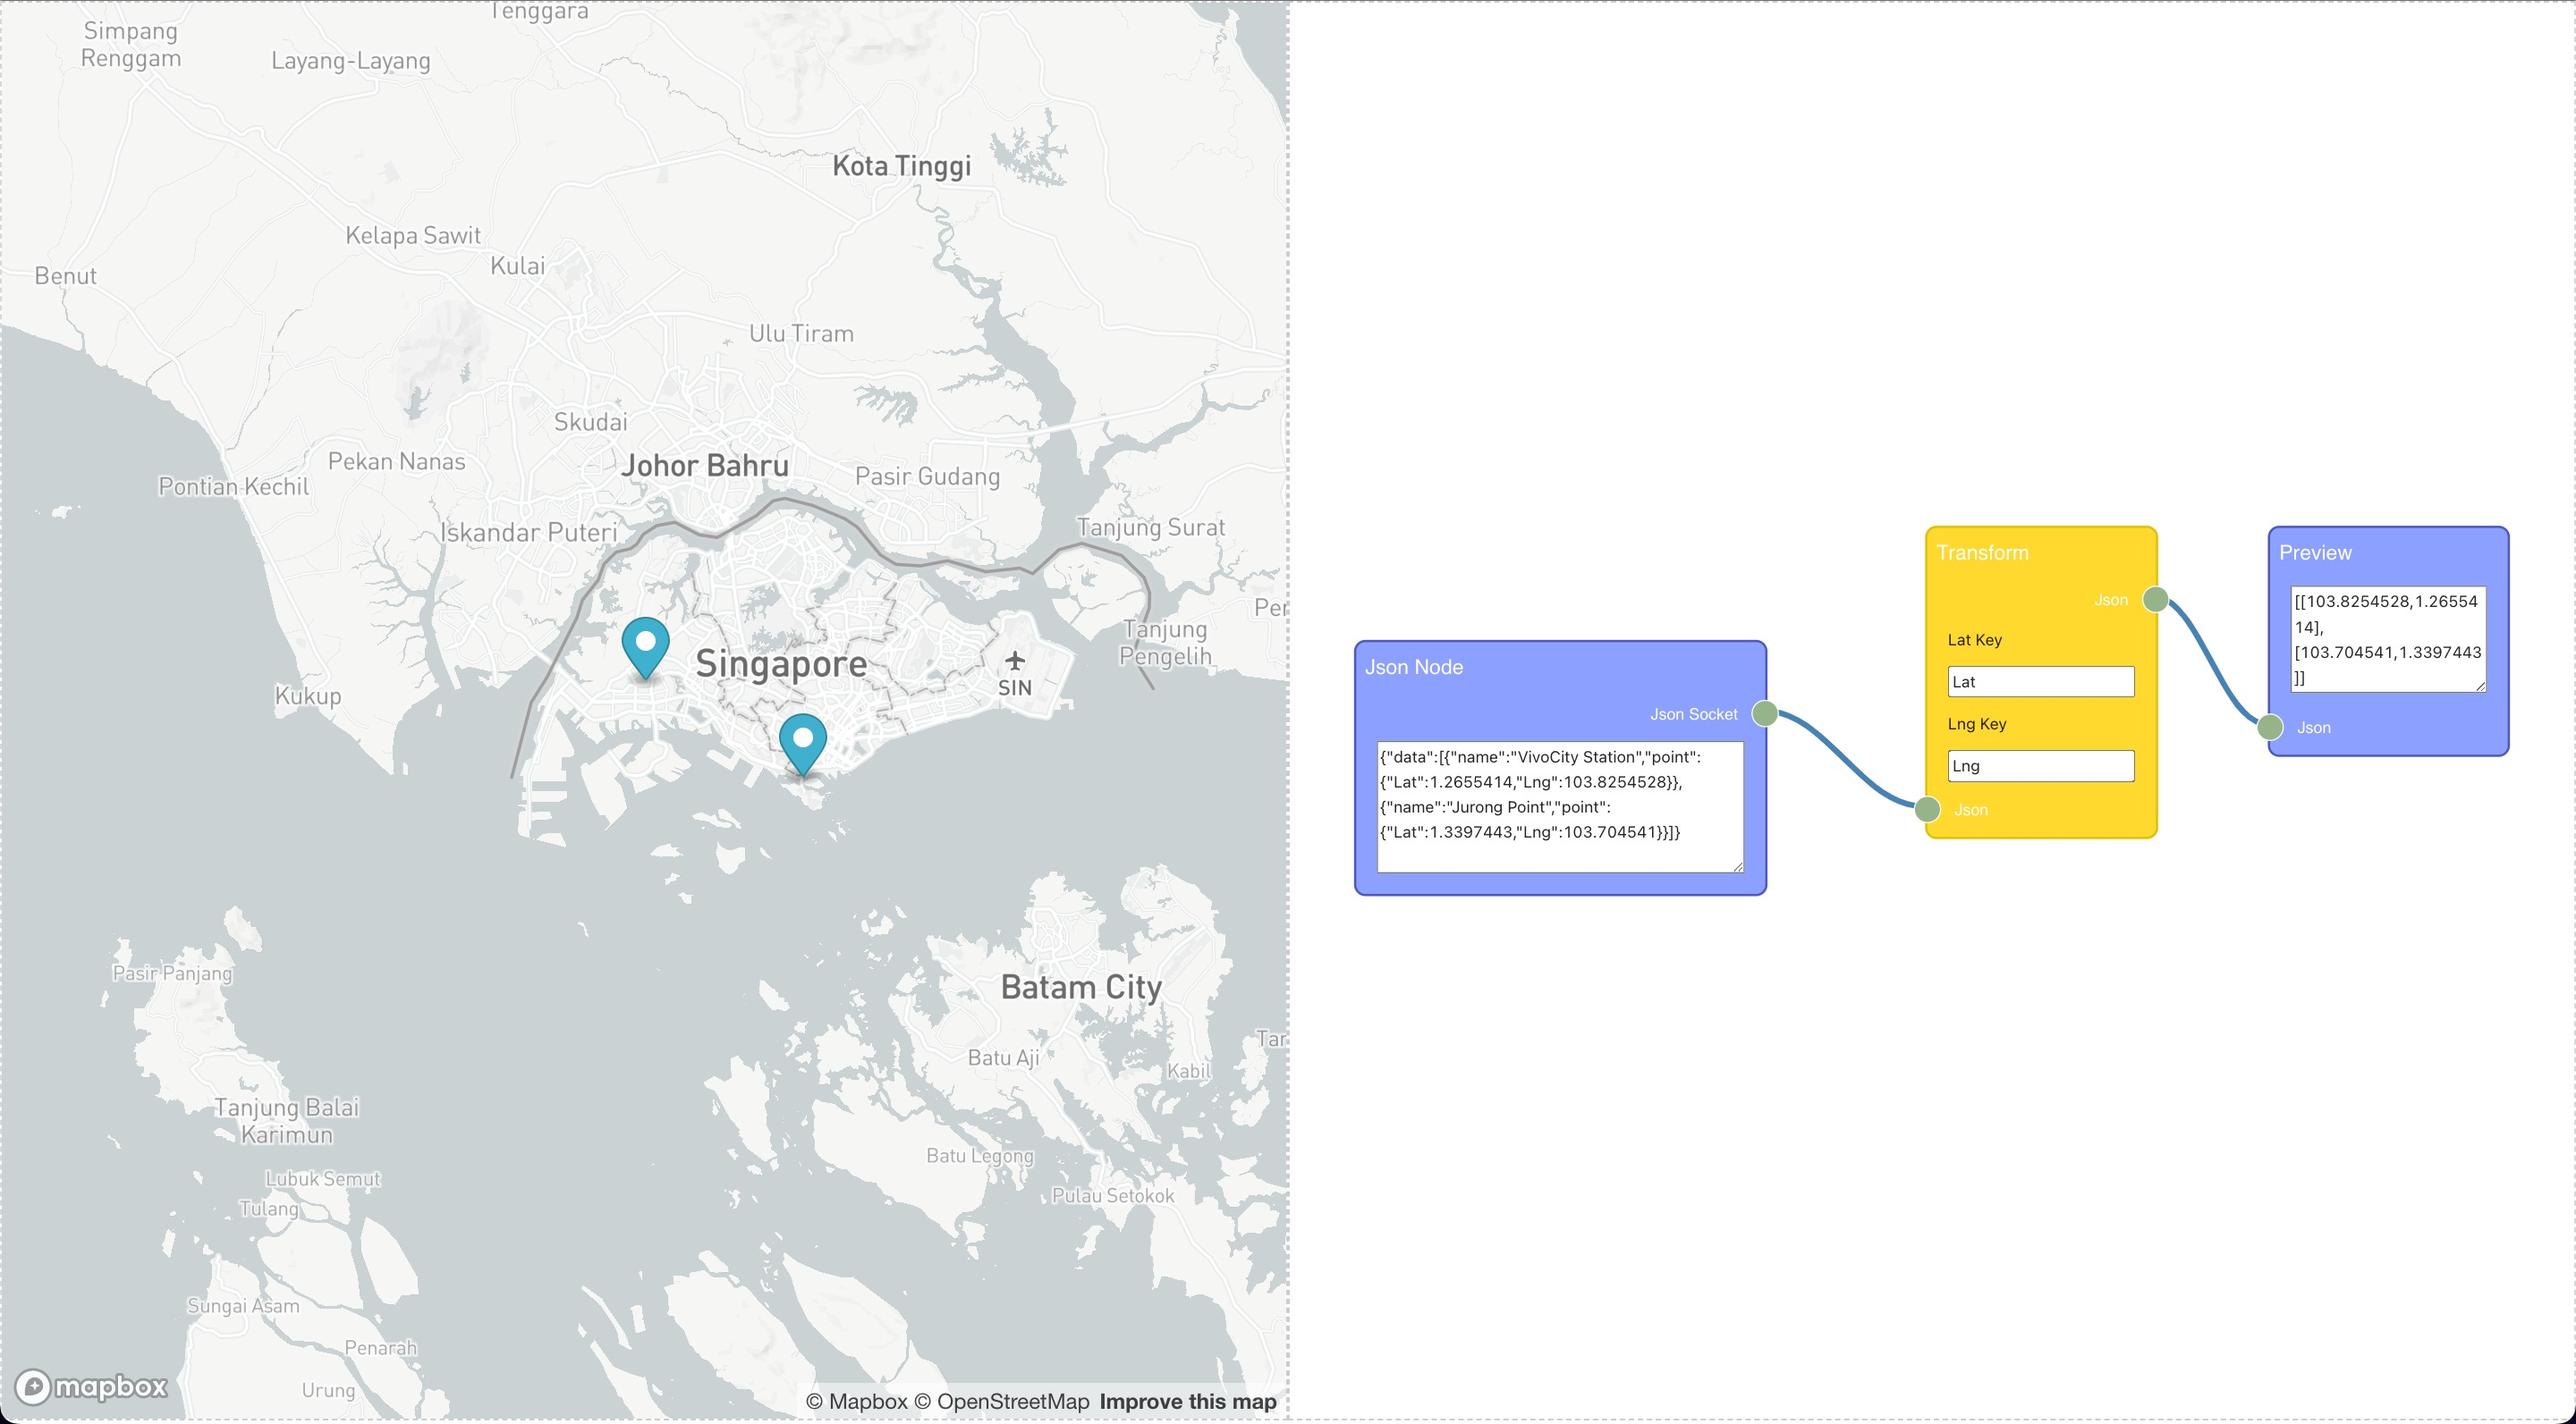
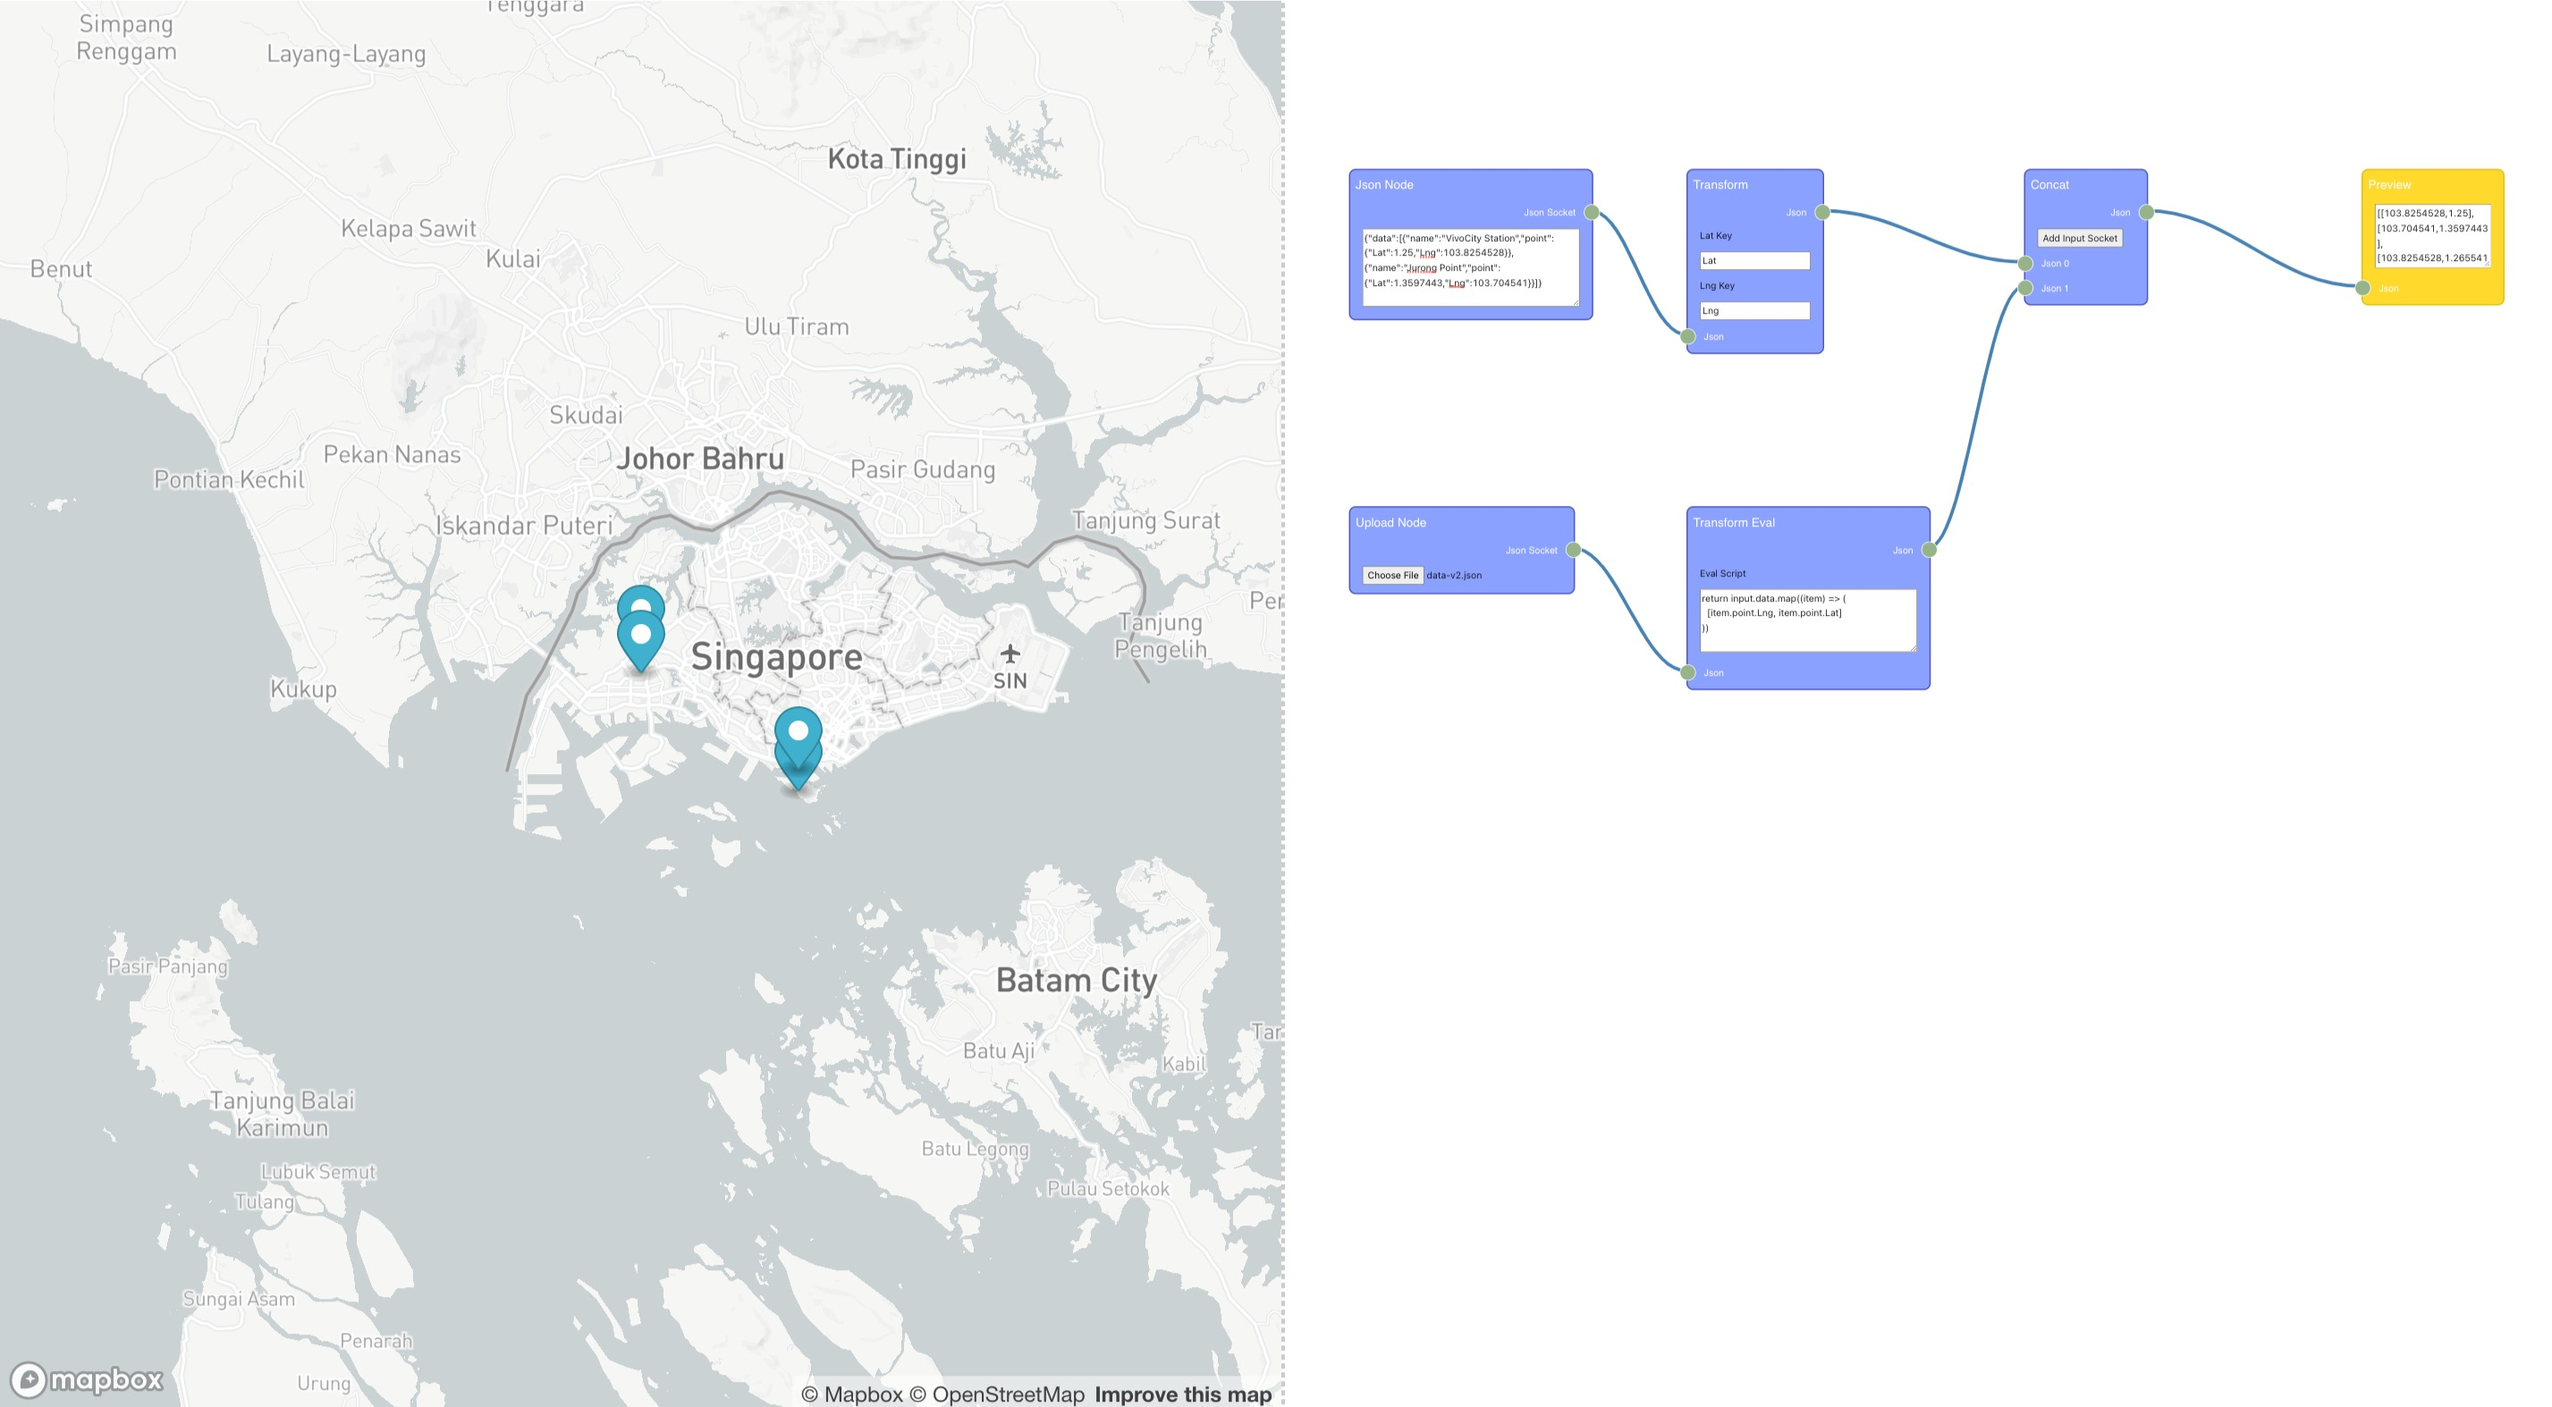
concat data

diff --git a/src/NodeEditor/rete.jsx b/src/NodeEditor/rete.jsx
@@ -4,10 +4,12 @@ import ReactRenderPlugin from 'rete-react-render-plugin';
 import ConnectionPlugin from 'rete-connection-plugin';
 import AreaPlugin from 'rete-area-plugin';
 import JsonComponent from './JsonComponent';
+import TransformComponent from './TransformComponent';
 import TransformEvalComponent from './TransformEvalComponent';
 import PreviewComponent from './PreviewComponent';
 import mockJsonData from './mockData.json';
 import UploadComponent from './UploadComponent';
+import ConcatComponent from './ConcatComponent';
 
 const defaultFnStr = `return input.data.map((item) => (
   [item.point.Lng, item.point.Lat]
@@ -16,7 +18,9 @@ const defaultFnStr = `return input.data.map((item) => (
 export async function createEditor(container) {
   const uploadComponent = new UploadComponent();
   const jsonComponent = new JsonComponent();
+  const transformComponent = new TransformComponent();
   const transformEvalComponent = new TransformEvalComponent();
+  const concatComponent = new ConcatComponent();
   const previewComponent = new PreviewComponent();
 
   const editor = new Rete.NodeEditor('demo@0.1.0', container);
@@ -25,7 +29,9 @@ export async function createEditor(container) {
 
   const engine = new Rete.Engine('demo@0.1.0');
 
-  [uploadComponent, jsonComponent, transformEvalComponent, previewComponent].forEach((c) => {
+  [uploadComponent, jsonComponent, transformComponent, transformEvalComponent,
+    concatComponent, previewComponent,
+  ].forEach((c) => {
     editor.register(c);
     engine.register(c);
   });
@@ -34,25 +40,43 @@ export async function createEditor(container) {
   const jsonNode = await jsonComponent.createNode({
     json: mockJsonData,
   });
+  const transformNode = await transformComponent.createNode();
   const transformEvalNode = await transformEvalComponent.createNode({ fnStr: defaultFnStr });
+  const concatNode = await concatComponent.createNode();
   const previewNode = await previewComponent.createNode();
 
-  uploadNode.position = [0, 400];
-  jsonNode.position = [0, 100];
-  transformEvalNode.position = [500, 0];
-  previewNode.position = [1000, 0];
+  uploadNode.position = [0, 500];
+  jsonNode.position = [0, 0];
+  transformNode.position = [500, 0];
+  transformEvalNode.position = [500, 500];
+  concatNode.position = [1000, 0];
+  previewNode.position = [1500, 0];
 
   editor.addNode(uploadNode);
   editor.addNode(jsonNode);
+  editor.addNode(transformNode);
   editor.addNode(transformEvalNode);
+  editor.addNode(concatNode);
   editor.addNode(previewNode);
 
+  editor.connect(
+    jsonNode.outputs.get('json'),
+    transformNode.inputs.get('json'),
+  );
   editor.connect(
     uploadNode.outputs.get('json'),
     transformEvalNode.inputs.get('json'),
   );
   editor.connect(
+    transformNode.outputs.get('json'),
+    concatNode.inputs.get('json0'),
+  );
+  editor.connect(
     transformEvalNode.outputs.get('json'),
+    concatNode.inputs.get('json1'),
+  );
+  editor.connect(
+    concatNode.outputs.get('json'),
     previewNode.inputs.get('json'),
   );
 

diff --git a/src/NodeEditor/ConcatComponent.js b/src/NodeEditor/ConcatComponent.js
@@ -1,0 +1,49 @@
+import Rete from 'rete';
+import { jsonSocket } from './JsonComponent';
+import ButtonControl from './ButtonControl';
+
+export default class ConcatComponent extends Rete.Component {
+  constructor() {
+    super('Concat');
+  }
+
+  builder(node) {
+    let index = 0;
+
+    const onClick = () => {
+      node.addInput(
+        new Rete.Input(`json${index}`, `Json ${index}`, jsonSocket),
+      );
+      index += 1;
+      node.update(); // Rerender ConcatComponent
+    };
+
+    // Add input
+    [0, 1].forEach(() => {
+      node.addInput(new Rete.Input(`json${index}`, `Json ${index}`, jsonSocket));
+      index += 1;
+    });
+
+    return node
+      .addOutput(new Rete.Output('json', 'Json', jsonSocket))
+      .addControl(
+        new ButtonControl(this.editor, 'addInputSocket', {
+          text: 'Add Input Socket',
+          onClick,
+        }),
+      );
+  }
+
+  // eslint-disable-next-line class-methods-use-this
+  worker(node, inputs, outputs) {
+    let out = [];
+
+    Object.keys(inputs).forEach((key) => {
+      const inputValue = inputs[key].length ? inputs[key][0] : node.data[key];
+      out = [...out, ...inputValue];
+    });
+
+    // eslint-disable-next-line no-param-reassign
+    outputs.json = out;
+  }
+}

diff --git a/src/NodeEditor/TransformEvalComponent.js b/src/NodeEditor/TransformEvalComponent.js
@@ -5,7 +5,7 @@ import DivControl from './DivControl';
 
 export default class TransformEvalComponent extends Rete.Component {
   constructor() {
-    super('Transform');
+    super('Transform Eval');
   }
 
   builder(node) {
@@ -21,6 +21,12 @@ export default class TransformEvalComponent extends Rete.Component {
 
   worker(node, inputs, outputs) {
     const jsonNodeValue = inputs.json.length ? inputs.json[0] : node.data.json;
+
+    if (!jsonNodeValue.data) {
+      // eslint-disable-next-line no-param-reassign
+      outputs.json = [];
+      return;
+    }
 
     const { controls } = this.editor.nodes.find((n) => n.id === node.id);
     const fnStr = controls.get('fnStr').getValue();

diff --git a/src/NodeEditor/TransformComponent.js b/src/NodeEditor/TransformComponent.js
@@ -30,8 +30,10 @@ export default class TransformComponent extends Rete.Component {
     const lngKey = controls.get('lngKey').getValue();
 
     // eslint-disable-next-line no-param-reassign
-    outputs.json = jsonNodeValue.data.map((item) => (
-      [_.get(item, `point.${lngKey}`), _.get(item, `point.${latKey}`)]
-    ));
+    outputs.json = jsonNodeValue.data
+      .filter((item) => _.get(item, `point.${lngKey}`) && _.get(item, `point.${latKey}`))
+      .map((item) => (
+        [_.get(item, `point.${lngKey}`), _.get(item, `point.${latKey}`)]
+      ));
   }
 }

diff --git a/src/NodeEditor/ButtonControl.jsx b/src/NodeEditor/ButtonControl.jsx
@@ -1,0 +1,23 @@
+import React from 'react';
+import Rete from 'rete';
+
+export default class ButtonControl extends Rete.Control {
+  static component = ({ text, onClick }) => (
+    <button type="button" onClick={onClick}>{text}</button>
+  );
+
+  constructor(emitter, key, { text, onClick }) {
+    super(key);
+    this.emitter = emitter;
+    this.key = key;
+    this.component = ButtonControl.component;
+
+    this.props = {
+      text,
+      onClick: () => {
+        onClick();
+        this.emitter.trigger('process');
+      },
+    };
+  }
+}

diff --git a/src/NodeEditor/JsonComponent.jsx b/src/NodeEditor/JsonComponent.jsx
@@ -16,6 +16,12 @@ export default class JsonComponent extends Rete.Component {
 
   // eslint-disable-next-line class-methods-use-this
   worker(node, inputs, outputs) {
-    outputs.json = node.data.json; // eslint-disable-line no-param-reassign
+    if (typeof node.data.json === 'string') {
+      // eslint-disable-next-line no-param-reassign
+      outputs.json = JSON.parse(node.data.json);
+      return;
+    }
+    // eslint-disable-next-line no-param-reassign
+    outputs.json = node.data.json;
   }
 }

diff --git a/src/NodeEditor/PreviewComponent.js b/src/NodeEditor/PreviewComponent.js
@@ -18,7 +18,8 @@ export default class PreviewComponent extends Rete.Component {
   }
 
   // eslint-disable-next-line no-unused-vars
-  worker(node, inputs, outputs) {
+  worker(node, inputs) {
+    console.debug('PreviewComponent.worker:', inputs);
     const jsonNodeValue = inputs.json.length ? inputs.json[0] : node.data.json;
 
     this.markers.forEach((m) => {
